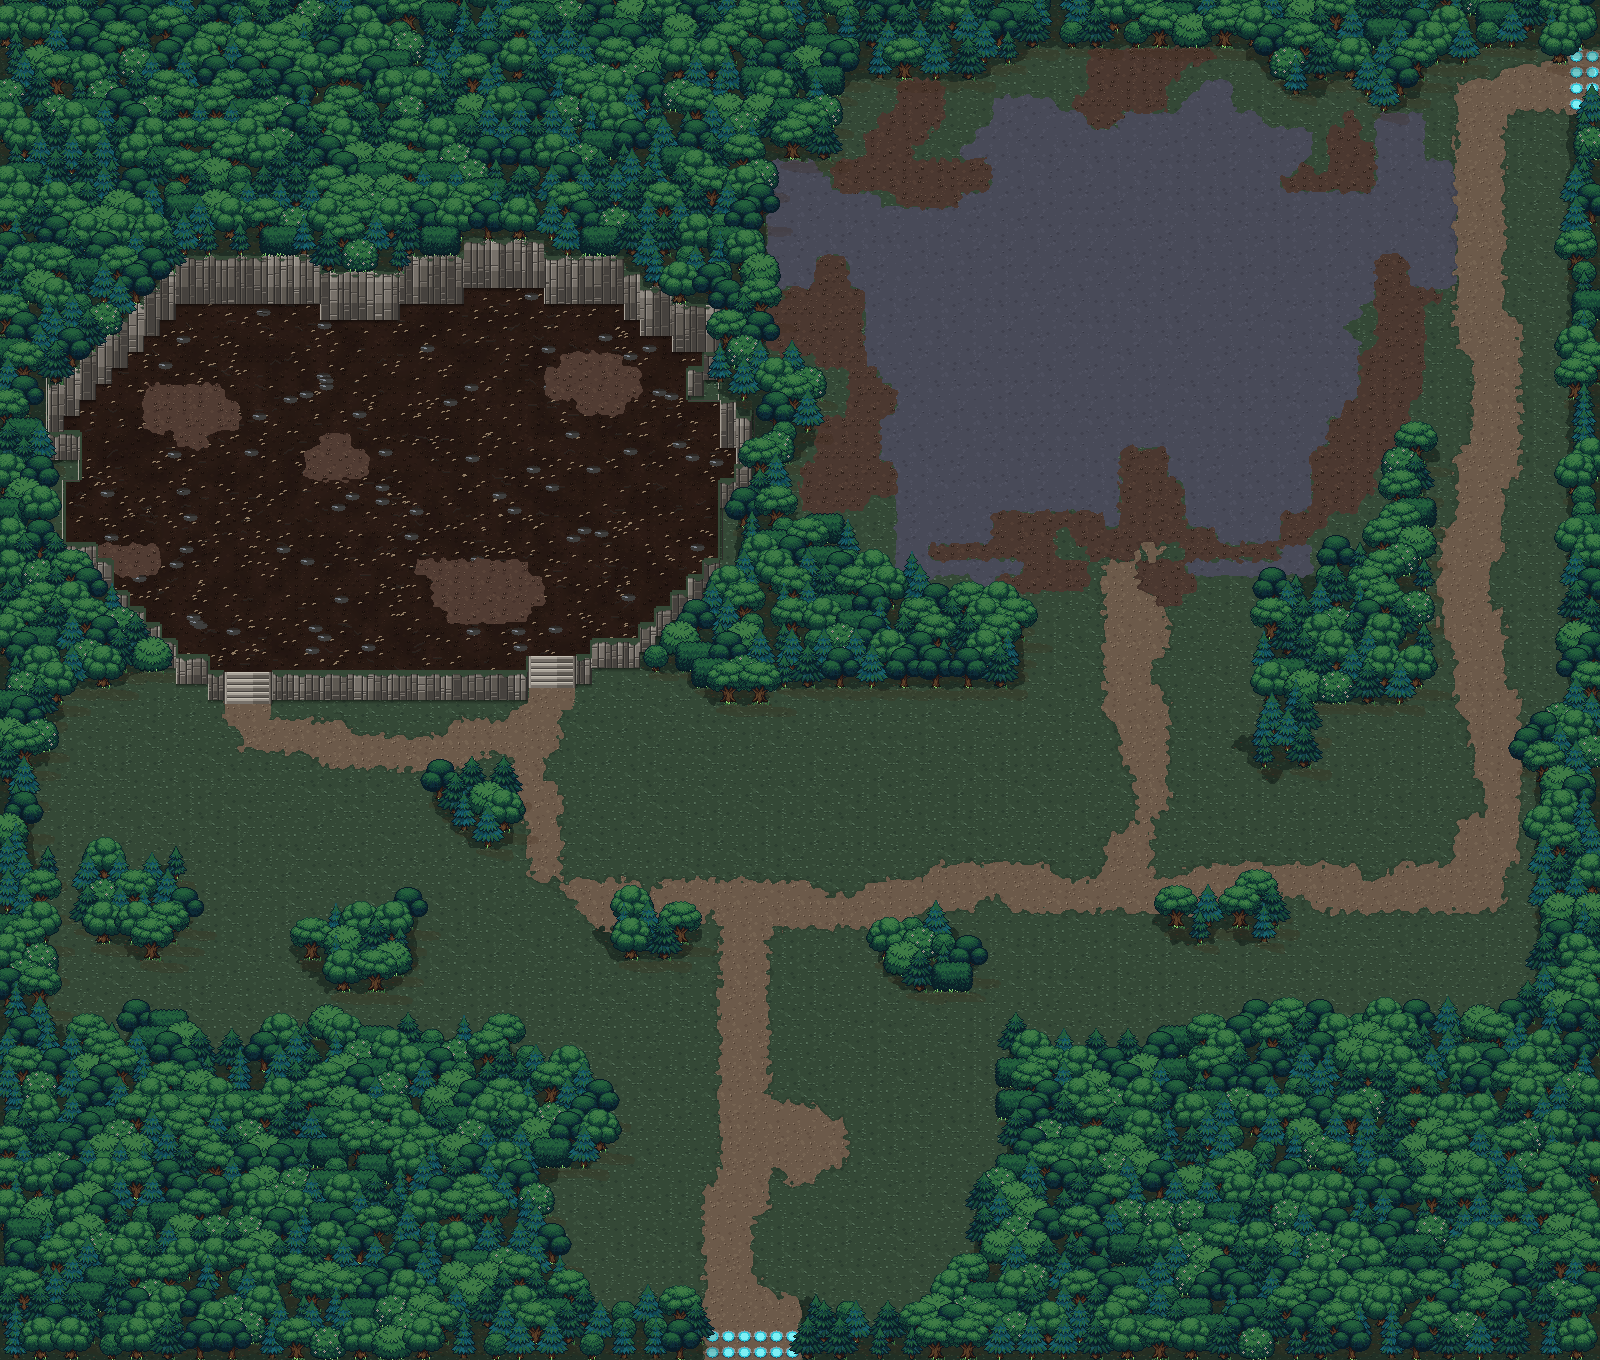
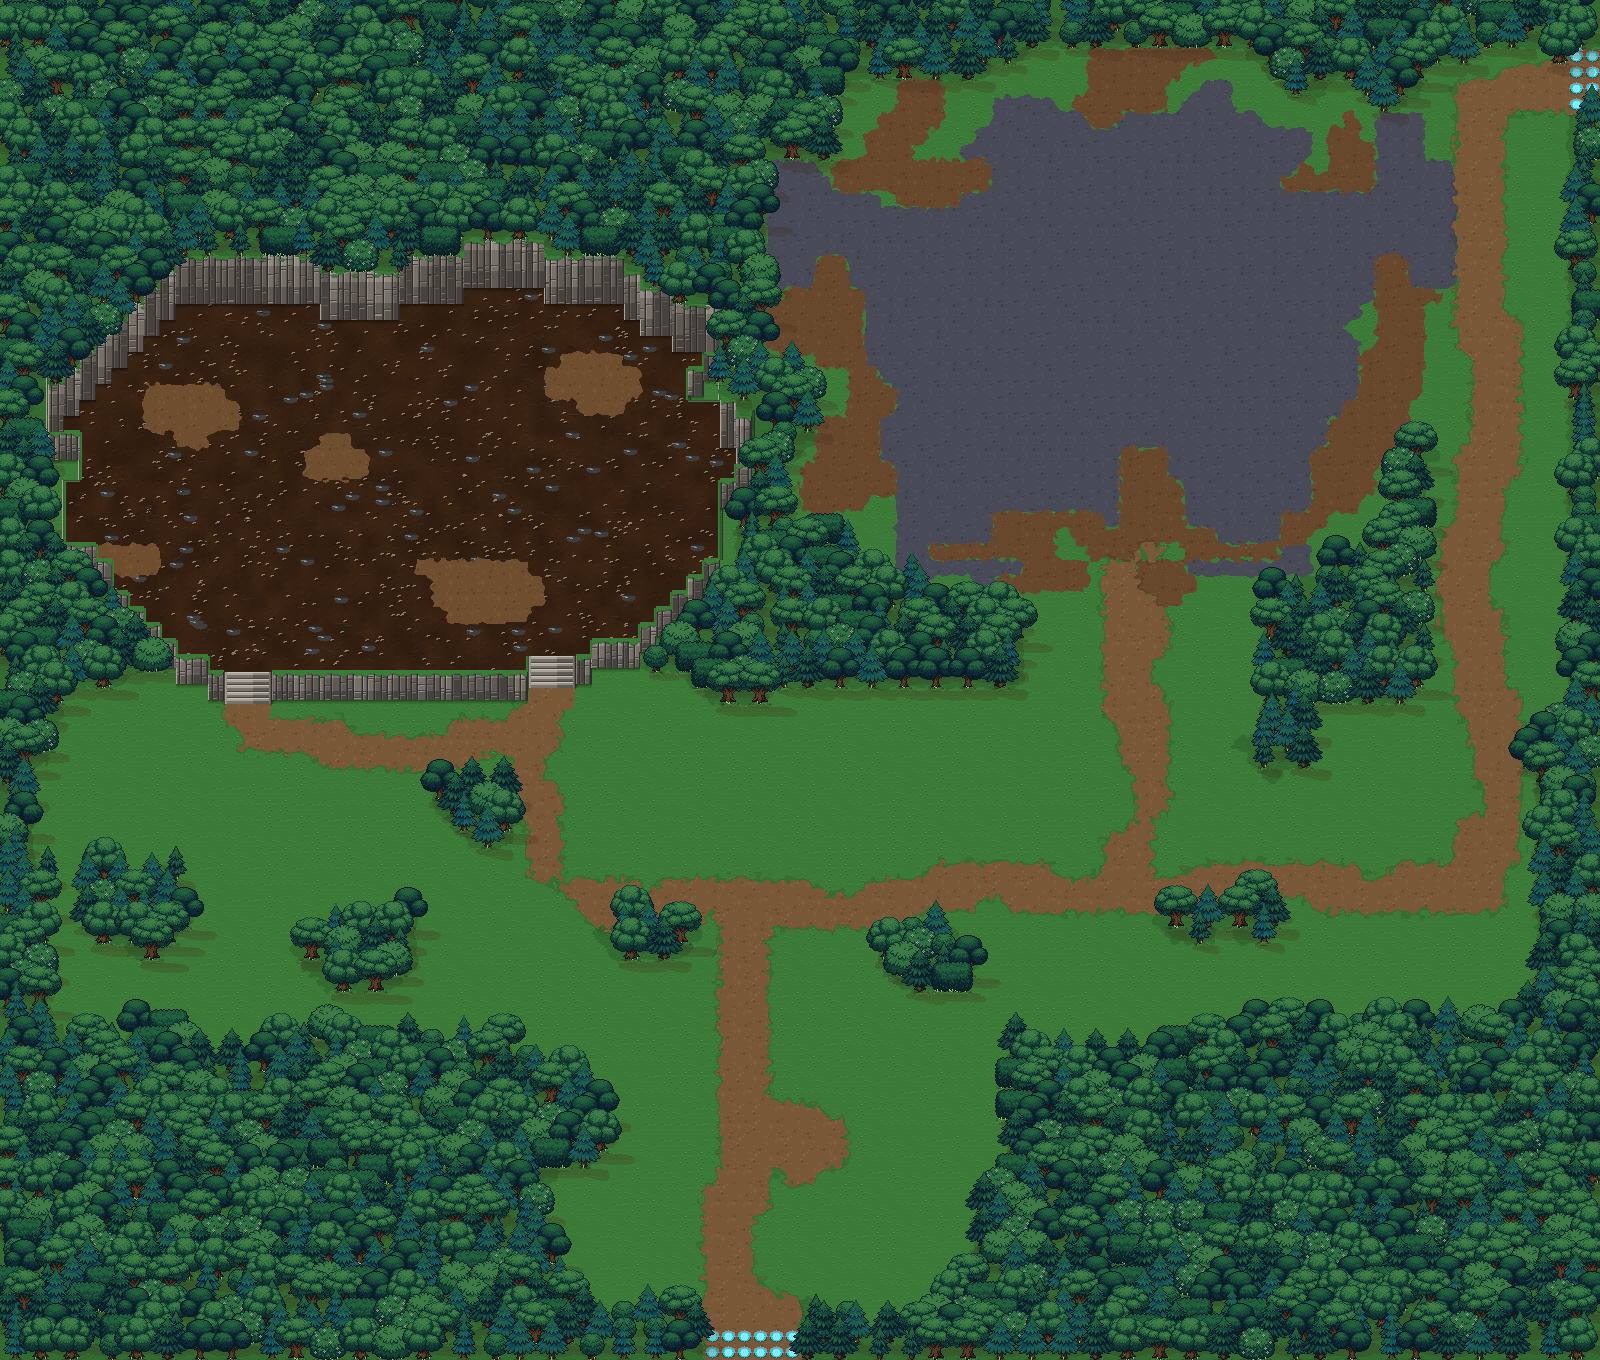
Karte 28: Gras, Waldboden und Wege wieder aus Karte-01-Kacheln (GBA-Stil), dunkler und kuehler gefaerbt
Claude-Session: https://claude.ai/code/session_01SaoYHKhnro4LFcPJqjaPsq

diff --git a/tools/karte28_bauen.py b/tools/karte28_bauen.py
@@ -65,15 +65,23 @@ def bauen(frame=None, speichern=True):
     Wp, Hp = cols * T, rows * T
     hp = np.kron(np.array([[int(c) for c in z] for z in lay['hoehe']]), np.ones((T, T), int))
     basis = os.path.join(ROOT, 'assets', 'basis')
-    b12 = os.path.join(ROOT, 'assets', 'karte12', 'basis')          # dunkler Wald (Nutzer): Boeden von Karte 12
-    gras = flaeche(k6.kacheln(os.path.join(b12, 'v_%d.png'), 5), cols, rows)      # Moos statt Wiese
-    waldboden = flaeche(k6.kacheln(os.path.join(b12, 'g_%d.png'), 5), cols, rows)
-    sand = flaeche(k6.kacheln(os.path.join(b12, 'q_%d.png'), 5), cols, rows)      # Trampelpfad statt Sandweg
-    erde = flaeche(k6.kacheln(os.path.join(b12, 'd_%d.png'), 5), cols, rows)      # dunkle Walderde
+    # dunkler Wald (Nutzer): Kacheln von Karte 01 (GBA-Stil wie die anderen Karten), nur dunkler und kuehler gefaerbt
+    def dunkelgruen(a_):
+        return a_ * np.array([0.5, 0.6, 0.58], np.float32)
+    def walddunkel(a_):
+        return a_ * np.array([0.42, 0.52, 0.5], np.float32)
+    def pfad(a_):
+        return k23.braun(a_) * np.array([0.72, 0.68, 0.64], np.float32)
+    def walderde(a_):
+        return k23.braun(a_) * np.array([0.62, 0.56, 0.52], np.float32)
+    gras = flaeche(k6.kacheln(os.path.join(basis, 'gras_%d.png'), 5, dunkelgruen), cols, rows)
+    waldboden = flaeche(k6.kacheln(os.path.join(basis, 'gras_%d.png'), 5, walddunkel), cols, rows)
+    sand = flaeche(k6.kacheln(os.path.join(basis, 'sand_%d.png'), 5, pfad), cols, rows)
+    erde = flaeche(k6.kacheln(os.path.join(basis, 'sand_%d.png'), 5, walderde), cols, rows)
     stein = flaeche(k6.kacheln(os.path.join(basis, 'sand_%d.png'), 5, grau), cols, rows)
     a = gras.copy()
     wm = weich(zell_maske(cls, 'h', cols, rows), 5, 0.4, 3)          # Waldboden (Baeume sind Objekte)
-    a[wm] = (waldboden[wm] * 0.82).astype(np.uint8)
+    a[wm] = waldboden[wm]
     # Steinplatz rechts: grauer Boden, Erdflecken mit weichem Rand
     km = weich(zell_maske(cls, 'k', cols, rows), 5.0, 0.4, 11)
     a[km] = stein[km]
